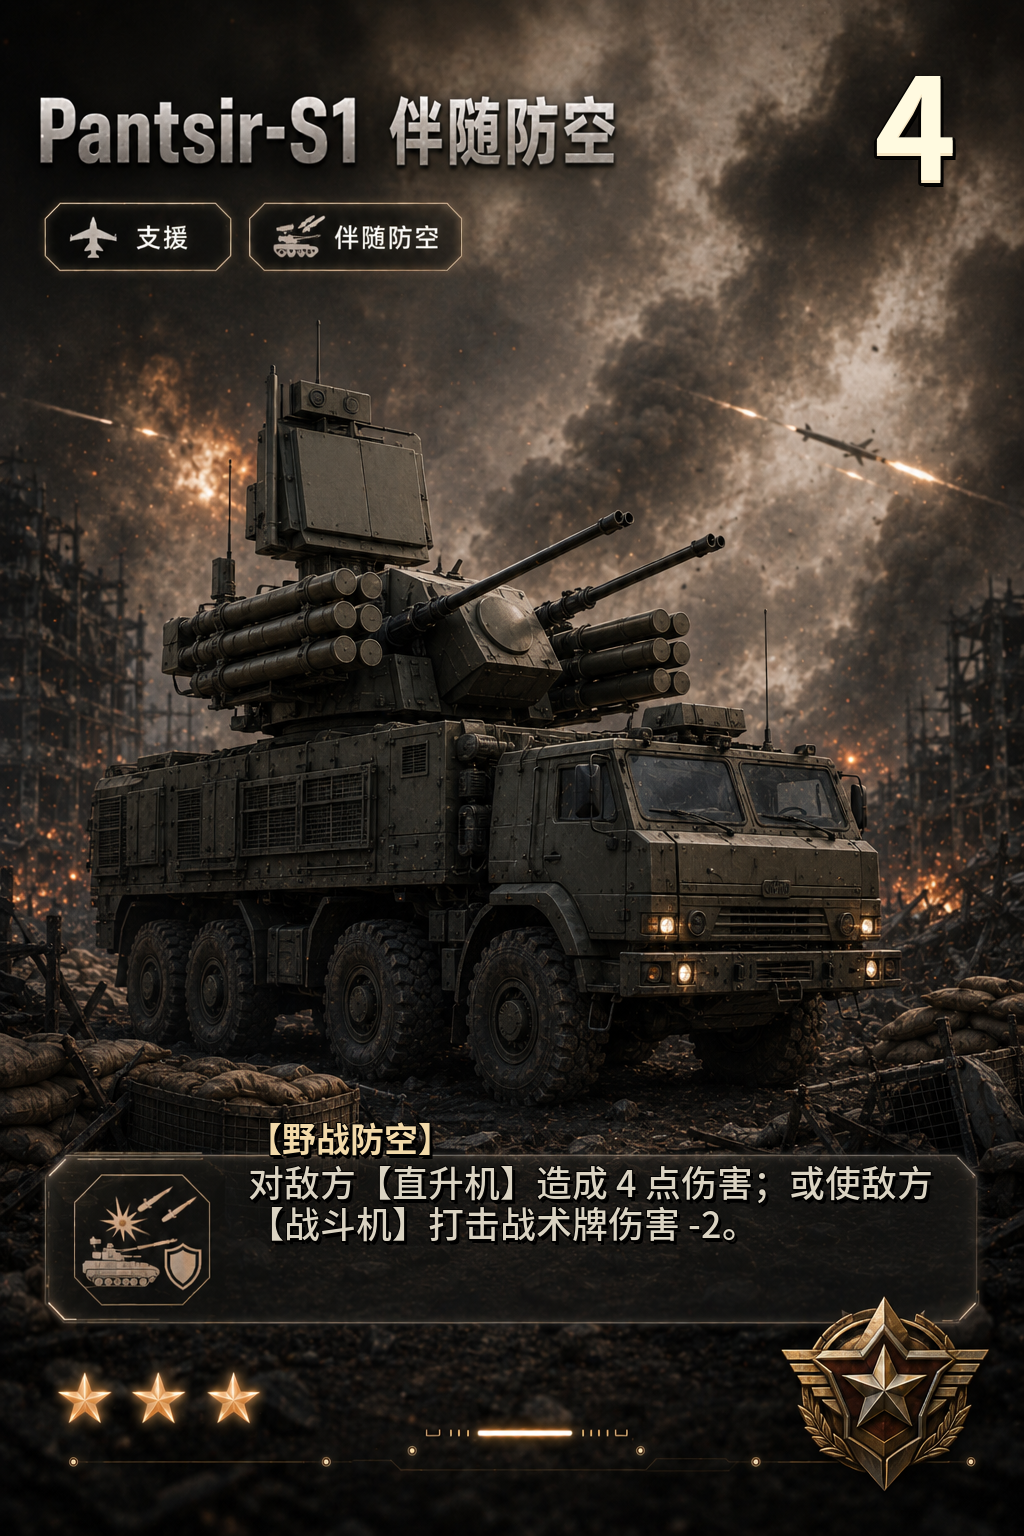
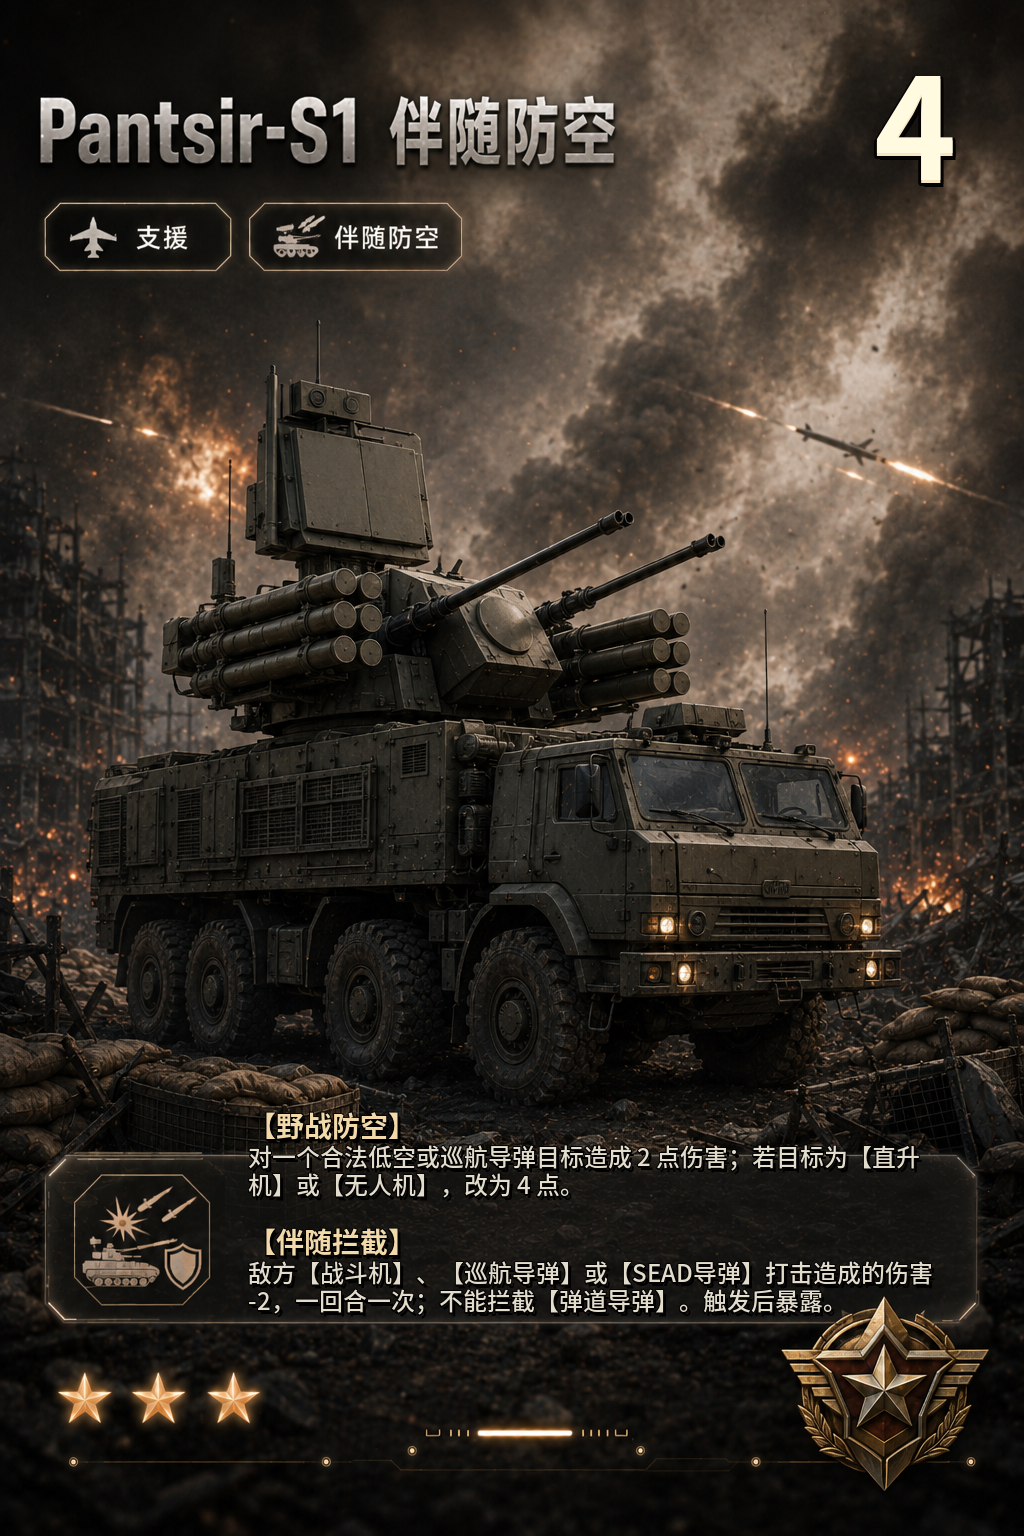
Update missile and SEAD card text rendering

Changed region(s): [[0.2188, 0.7188, 0.9062, 0.875]]

diff --git a/src/main.js b/src/main.js
@@ -21,6 +21,7 @@ import {
   getTagBadgePath,
   hasGeneratedCardImages,
   hasLiveDetailOverlay,
+  hasLiveDetailPowerOverlay,
   isModernUnitCard,
   renderRarityStars,
 } from "./card-design.js";
@@ -693,6 +694,8 @@ function createBattle() {
     log: [
       "V0.4.1 规则：单位战力同时代表生命值和摧毁得分价值，先达到 50 点战场得分者获胜。",
       "巡航导弹、弹道导弹、SEAD 战斗机、轰炸机均为驻场单位，拥有战力、可被摧毁并提供得分。",
+      "巡航导弹仅能打击暴露地面目标或直升机，可被伴随/重型防空拦截；弹道导弹打击规则相同，但只能被重型防空拦截。",
+      "SEAD 导弹可指定敌方伴随/重型防空，包括隐蔽防空；若目标仍有拦截窗口，打击被抵消为暴露目标并消耗该窗口。",
       "每个单位每回合最多行动一次；部署单位可立即行动，但本回合不能再次作为场上行动单位，也不能执行前线突破。",
       "若己方回合开始时敌方前线为空，可用一个回合开始前已部署且未行动的前线单位突破，暴露并打击其可有效攻击的敌方隐蔽后排单位。",
     ],
@@ -1097,6 +1100,7 @@ function renderWarCard(card, options = {}) {
   const generated = hasGeneratedCardImages(card);
   const detailArtPath = options.preview ? getCardDetailImagePath(card) : "";
   const liveDetailOverlay = Boolean(detailArtPath && hasLiveDetailOverlay(card));
+  const livePowerOverlay = Boolean(detailArtPath && hasLiveDetailPowerOverlay(card));
   const artPath = detailArtPath || getCardArtPath(card);
   const modern = isModernUnitCard(card);
   const primaryTag = card.tags[0] || typeLabel;
@@ -1118,7 +1122,7 @@ function renderWarCard(card, options = {}) {
   ]
     .filter(Boolean)
     .join(" ");
-  const showPowerBadge = card.type === "unit" ? (!detailArtPath || liveDetailOverlay) : !generated;
+  const showPowerBadge = card.type === "unit" ? (!detailArtPath || livePowerOverlay) : !generated;
   const powerBadge = card.type === "unit" ? card.power : card.type === "tactic" ? "T" : "S";
   const renderedTags = card.tags.slice(0, 3).map((tag) => {
     const tagBadge = getTagBadgePath(tag);
@@ -1446,7 +1450,7 @@ function renderGuide() {
     {
       index: "04",
       title: "火力链",
-      body: "侦察单位先翻开目标，远火、巡航/弹道导弹、SEAD 战斗机和轰炸机作为驻场单位兑现伤害；伴随防空可拦巡航导弹，弹道与 SEAD 只能由重型防空拦截。",
+      body: "侦察单位先翻开目标，远火、导弹、SEAD 战斗机和轰炸机作为驻场单位兑现伤害；巡航/弹道导弹只能打击地面目标或直升机，巡航可被伴随/重型防空拦截，弹道只能被重型防空拦截，SEAD 可点隐蔽防空并消耗其拦截窗口。",
     },
     {
       index: "05",
@@ -2166,7 +2170,7 @@ function resolveEffectOnTarget(battle, payload, options = {}) {
   }
 
   if (ability.kind === "damage" || ability.kind === "damageOrSelfBonus" || ability.kind === "strike") {
-    if (target.instance.hidden && ability.canRevealHidden) {
+    if (target.instance.hidden && canRevealHiddenTargetForAbility(ability, target.instance)) {
       exposeInstance(battle, target, sourceCard.name);
     }
     const amount = getDamageAmount(battle, payload.side, ability, target.instance, target.lineId, sourceCard);
@@ -2182,7 +2186,7 @@ function resolveEffectOnTarget(battle, payload, options = {}) {
   if (ability.kind === "areaDamage") {
     const areaTargets = getAreaDamageTargets(battle, payload.side, ability, target);
     areaTargets.forEach((areaTarget, index) => {
-      if (areaTarget.instance.hidden && ability.canRevealHidden) {
+      if (areaTarget.instance.hidden && canRevealHiddenTargetForAbility(ability, areaTarget.instance)) {
         exposeInstance(battle, areaTarget, sourceCard.name);
       }
       const amount = getDamageAmount(battle, payload.side, ability, areaTarget.instance, areaTarget.lineId, sourceCard, { areaIndex: index, primaryTarget: target.instance });
@@ -2416,7 +2420,11 @@ function dealDamage(battle, attackerSide, defenderSide, targetRefOrInstance, raw
   amount = applyOutgoingDamageDebuff(battle, amount, sourceRef, sourceCard);
   amount = applyOutgoingFireBoost(battle, attackerSide, amount, sourceCard);
   amount = applyDamageGuard(battle, defenderSide, amount, sourceCard);
+  const amountBeforeInterception = amount;
   amount = applyInterception(battle, defenderSide, targetRef.lineId, amount, sourceCard, sourceRef, targetRef);
+  if (amountBeforeInterception > 0 && amount <= 0 && canInterceptionCancelDamage(sourceCard, targetRef)) {
+    return;
+  }
   amount = applyContinuousDamageReduction(battle, defenderSide, targetRef, amount, sourceCard);
   amount = applyScreening(battle, defenderSide, targetRef, amount, sourceCard);
   if (amount <= 0) {
@@ -2802,6 +2810,11 @@ function applyInterception(battle, defenderSide, targetLineId, amount, sourceCar
     return amount;
   }
 
+  if (tryConsumeTargetInterceptionForSead(battle, defenderSide, targetLineId, sourceCard, targetRef)) {
+    gameAudio.play("defense.intercept", { sourceCard, reduction: amount });
+    return 0;
+  }
+
   const candidates = [];
   LINES.forEach((line) => {
     battle.board[defenderSide][line.id].forEach((instance) => {
@@ -2843,6 +2856,31 @@ function applyInterception(battle, defenderSide, targetLineId, amount, sourceCar
     gameAudio.play("defense.intercept", { sourceCard, reduction });
   }
   return Math.max(0, amount - reduction);
+}
+
+function canInterceptionCancelDamage(sourceCard, targetRef) {
+  return Boolean(
+    sourceCard?.ability?.cancelToZeroOnInterceptionForTags?.some((tag) => targetRef?.instance && hasTag(targetRef.instance, tag)),
+  );
+}
+
+function tryConsumeTargetInterceptionForSead(battle, defenderSide, targetLineId, sourceCard, targetRef) {
+  if (!canInterceptionCancelDamage(sourceCard, targetRef)) {
+    return false;
+  }
+  const instance = targetRef.instance;
+  const card = getCard(instance.cardId);
+  const intercept = card.continuous?.intercept;
+  const canProtectLine = !card.continuous?.protectLines || card.continuous.protectLines.includes(targetLineId);
+  const canIntercept = card.continuous?.interceptTags?.some((tag) => sourceCard.tags.includes(tag));
+  if (!intercept || !canProtectLine || !canIntercept || getCurrentPower(instance) <= 0 || instance.interceptAction === battle.actionSerial) {
+    return false;
+  }
+  instance.interceptAction = battle.actionSerial;
+  markUnitActed(battle, instance);
+  exposeInstance(battle, { side: defenderSide, lineId: targetRef.lineId, instance }, `${card.name} 拦截`, { ignoreDecoy: true });
+  battle.log.push(`${card.name} 抵消 ${sourceCard.name} 的 SEAD 导弹，仅暴露并消耗本回合拦截窗口。`);
+  return true;
 }
 
 function getAllowedInterceptorTags(ability, targetRef = null) {
@@ -4702,14 +4740,19 @@ function countOwnVisibleCardOnLine(battle, side, lineId, cardId) {
   return battle.board[side][lineId].filter((instance) => getCurrentPower(instance) > 0 && !instance.hidden && instance.cardId === cardId).length;
 }
 
+function canRevealHiddenTargetForAbility(ability, instance) {
+  return Boolean(ability?.canRevealHidden || ability?.canRevealHiddenForTags?.some((tag) => hasTag(instance, tag)));
+}
+
 function canTargetForAbility(battle, actingSide, target, ability) {
-  if (target.instance.hidden && !ability.canRevealHidden) {
+  const canRevealHiddenTarget = canRevealHiddenTargetForAbility(ability, target.instance);
+  if (target.instance.hidden && !canRevealHiddenTarget) {
     return false;
   }
   if (ability.publicOnly && target.instance.hidden) {
     return false;
   }
-  if (ability.requiresExposed && !target.instance.exposed) {
+  if (ability.requiresExposed && !target.instance.exposed && !canRevealHiddenTarget) {
     return false;
   }
   if (ability.requiresExposedOrAnyTag && !target.instance.exposed && !ability.requiresExposedOrAnyTag.some((tag) => hasTag(target.instance, tag))) {
@@ -4718,7 +4761,7 @@ function canTargetForAbility(battle, actingSide, target, ability) {
   if (target.lineId === "frontline") {
     return true;
   }
-  return target.instance.exposed || isSupportUncovered(battle, target.side) || ability.allowSupport || (ability.rows?.length === 1 && ability.rows[0] === "support");
+  return target.instance.exposed || canRevealHiddenTarget || isSupportUncovered(battle, target.side) || ability.allowSupport || (ability.rows?.length === 1 && ability.rows[0] === "support");
 }
 
 function matchesTargetRequirements(instance, ability) {

diff --git a/styles.css b/styles.css
@@ -6178,36 +6178,40 @@ button:disabled {
 .war-card--generated-detail.war-card--live-detail-overlay .war-card__body {
   display: block !important;
   position: absolute;
-  left: 86px;
-  right: 22px;
-  bottom: 72px;
+  left: 76px;
+  right: 20px;
+  bottom: 73px;
   z-index: 7;
-  height: 78px;
+  height: 82px !important;
+  min-height: 0 !important;
   padding: 0;
-  overflow: hidden;
-  background: none;
+  overflow: hidden !important;
+  border-radius: 3px;
+  background: linear-gradient(90deg, rgba(3, 3, 3, 0.82), rgba(3, 3, 3, 0.66) 72%, rgba(3, 3, 3, 0.28)) !important;
   color: #fff8e9;
   text-align: left;
 }
 
 .war-card--generated-detail.war-card--live-detail-overlay .war-card__skill {
-  display: inline !important;
+  display: block !important;
   min-height: 0;
   margin: 0;
   padding: 0;
   border: 0;
   border-radius: 0;
-  color: #fff8e9;
+  color: #f4ead6;
   background: none !important;
   box-shadow: none !important;
   backdrop-filter: none;
-  font-size: 0.57rem;
-  line-height: 1.23;
-  font-weight: 850;
+  font-size: 0.52rem;
+  line-height: 1.2;
+  font-weight: 400;
 }
 
 .war-card--generated-detail.war-card--live-detail-overlay .war-card__skill + .war-card__skill::before {
-  content: " ";
+  content: "";
+  display: block;
+  height: 4px;
 }
 
 .war-card--generated-detail.war-card--live-detail-overlay .war-card__skill-icon {
@@ -6215,10 +6219,10 @@ button:disabled {
 }
 
 .war-card--generated-detail.war-card--live-detail-overlay .war-card__skill-copy {
-  display: inline;
+  display: block;
   min-width: 0;
   padding: 0;
-  color: #fff8e9;
+  color: #f4ead6;
   font-size: inherit;
   line-height: inherit;
   font-weight: inherit;
@@ -6228,11 +6232,12 @@ button:disabled {
 }
 
 .war-card--generated-detail.war-card--live-detail-overlay .war-card__skill-copy strong {
-  display: inline;
-  color: #ffffff;
-  font-size: inherit;
-  line-height: inherit;
-  font-weight: 1000;
+  display: block;
+  margin-bottom: 2px;
+  color: #e8c57d;
+  font-size: 0.56rem;
+  line-height: 1.08;
+  font-weight: 500;
 }
 
 @media (max-width: 760px) {

diff --git a/src/card-design.js b/src/card-design.js
@@ -140,6 +140,12 @@ export const LIVE_DETAIL_OVERLAY_CARD_IDS = new Set([
   "ru_su57_sead",
 ]);
 
+export const LIVE_DETAIL_POWER_OVERLAY_CARD_IDS = new Set([
+  "us_f35",
+  "us_f35a_sead",
+  "ru_su57_sead",
+]);
+
 export const CARD_FIRE_VIDEO_PATHS = {
   us_m1a2: `${CARD_FIRE_VIDEO_ROOT}/us_m1a2-fire.mp4`,
 };
@@ -245,6 +251,10 @@ export function hasGeneratedCardImages(card) {
 
 export function hasLiveDetailOverlay(card) {
   return LIVE_DETAIL_OVERLAY_CARD_IDS.has(card?.id);
+}
+
+export function hasLiveDetailPowerOverlay(card) {
+  return LIVE_DETAIL_POWER_OVERLAY_CARD_IDS.has(card?.id);
 }
 
 export function getCardFireVideoPath(card) {

diff --git a/README.md b/README.md
@@ -1,6 +1,6 @@
 # 现代战争双层战场卡牌 WebDemo
 
-基于 V0.4.1 核心机制与美俄首发卡组/组卡规则的可玩原型：三线战场、通用隐蔽部署、前线接敌/伏击、前线突破、50 点摧毁得分胜利、补给耗尽最终行动、24 张驻场单位 + 6 张功能战术牌。巡航导弹、弹道导弹、SEAD 战斗机和轰炸机为驻场单位，拥有战力并可被摧毁得分；伴随防空可拦截巡航导弹，弹道导弹与 SEAD 反辐射导弹只能被重型防空拦截。
+基于 V0.4.1 核心机制与美俄首发卡组/组卡规则的可玩原型：三线战场、通用隐蔽部署、前线接敌/伏击、前线突破、50 点摧毁得分胜利、补给耗尽最终行动、24 张驻场单位 + 6 张功能战术牌。巡航导弹、弹道导弹、SEAD 战斗机和轰炸机为驻场单位，拥有战力并可被摧毁得分；巡航导弹仅能打击暴露地面目标或直升机，可被伴随/重型防空拦截；弹道导弹打击规则相同，但只能被重型防空拦截；SEAD 可指定隐蔽防空单位，若目标仍有拦截窗口，打击被抵消为暴露目标并消耗该窗口。
 
 ## 本地运行
 
